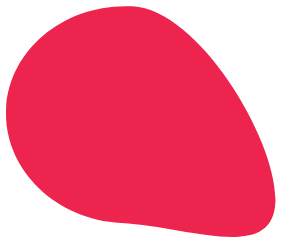
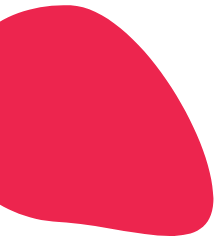
section 1 & 2

Changed region(s): [[0.0, 0.0, 0.9688, 1.0]]

diff --git a/style.css b/style.css
@@ -82,7 +82,7 @@ main {
   align-self: flex-start;
 }
 
-button {
+.btn1 {
   width: 271px;
   height: 58px;
   color: white;
@@ -95,3 +95,96 @@ button {
   align-self: flex-start;
   justify-self: center;
 }
+
+/*#####################-->SECTION 1<--###############################*/
+
+/* .section1 {
+  display: grid;
+  grid-template-rows: 1fr;
+} */
+
+h1 {
+  font-size: 45px;
+  font-weight: 600;
+  text-align: center;
+}
+
+.red {
+  position: absolute;
+  top: 120%;
+  width: 11%;
+}
+
+.blue {
+  position: absolute;
+  top: 116%;
+  right: 0;
+  width: 9%;
+}
+
+/*#####################-->SECTION 2<--###############################*/
+/*#####################-->SECTION 3<--###############################*/
+
+.section3 {
+  display: grid;
+  background-color: #8fa6cb;
+  grid-template-rows: 120px 100px 380px 150px;
+}
+
+.title {
+  color: white;
+  grid-row: 1/2;
+  text-align: center;
+  align-self: end;
+}
+
+.p {
+  font-size: 23px;
+  color: white;
+  grid-row: 2/3;
+  text-align: center;
+  align-self: center;
+}
+
+.box {
+  grid-row: 3/4;
+  display: inline-grid;
+  grid-template-columns: auto auto auto;
+}
+
+.js,
+.db,
+.php {
+  grid-row: 1/2;
+  align-self: center;
+}
+
+.js {
+  justify-self: end;
+}
+
+.db {
+  justify-self: center;
+}
+
+.php {
+  justify-self: start;
+}
+
+.white-btn {
+  border-color: white;
+  border: solid 2px;
+  color: white;
+  background-color: #8fa6cb;
+  width: 271px;
+  height: 58px;
+  font-family: "Nunito Sans", sans-serif;
+  font-weight: 600;
+  font-size: 23px;
+  border-radius: 33px;
+  justify-self: center;
+  grid-row: 4/5;
+  align-self: start;
+}
+
+/*#####################-->SECTION 4<--###############################*/

diff --git a/index.html b/index.html
@@ -33,27 +33,29 @@
         grip on relational databases and SQL programming. Join us today and
         start your journey of learning.
       </p>
-      <button>JOIN YOMA</button>
+      <button class="btn1">JOIN YOMA</button>
     </main>
 
-    <section>
-      <h1></h1>
-      <img src="img/red.png" alt="" />
-      <img src="img/blue.png" alt="" />
+    <section class="section1">
+      <h1>How does it work?</h1>
+      <img class="red" src="img/red.png" alt="" />
+      <img class="blue" src="img/blue.png" alt="" />
     </section>
 
     <section>swiper</section>
 
-    <section>
-      <h1>Browse our most popular courses</h1>
-      <p>
+    <section class="section3">
+      <h1 class="title">Browse our most popular courses</h1>
+      <p class="p">
         We are offering over 100 lessons with easy to understand content that
         helps you study smarter
       </p>
-      <img src="img/js.png" alt="" />
-      <img src="img/db.png" alt="" />
-      <img src="img/php.png" alt="" />
-      <button>See more</button>
+      <div class="box">
+        <img class="js" src="img/js.png" alt="" />
+        <img class="db" src="img/db.png" alt="" />
+        <img class="php" src="img/php.png" alt="" />
+      </div>
+      <button class="white-btn">See more</button>
     </section>
 
     <section>
@@ -85,7 +87,7 @@
           experience.
         </p>
       </div>
-      <button>JOIN YOMA</button>
+      <button class="btn3">JOIN YOMA</button>
     </section>
 
     <footer>
